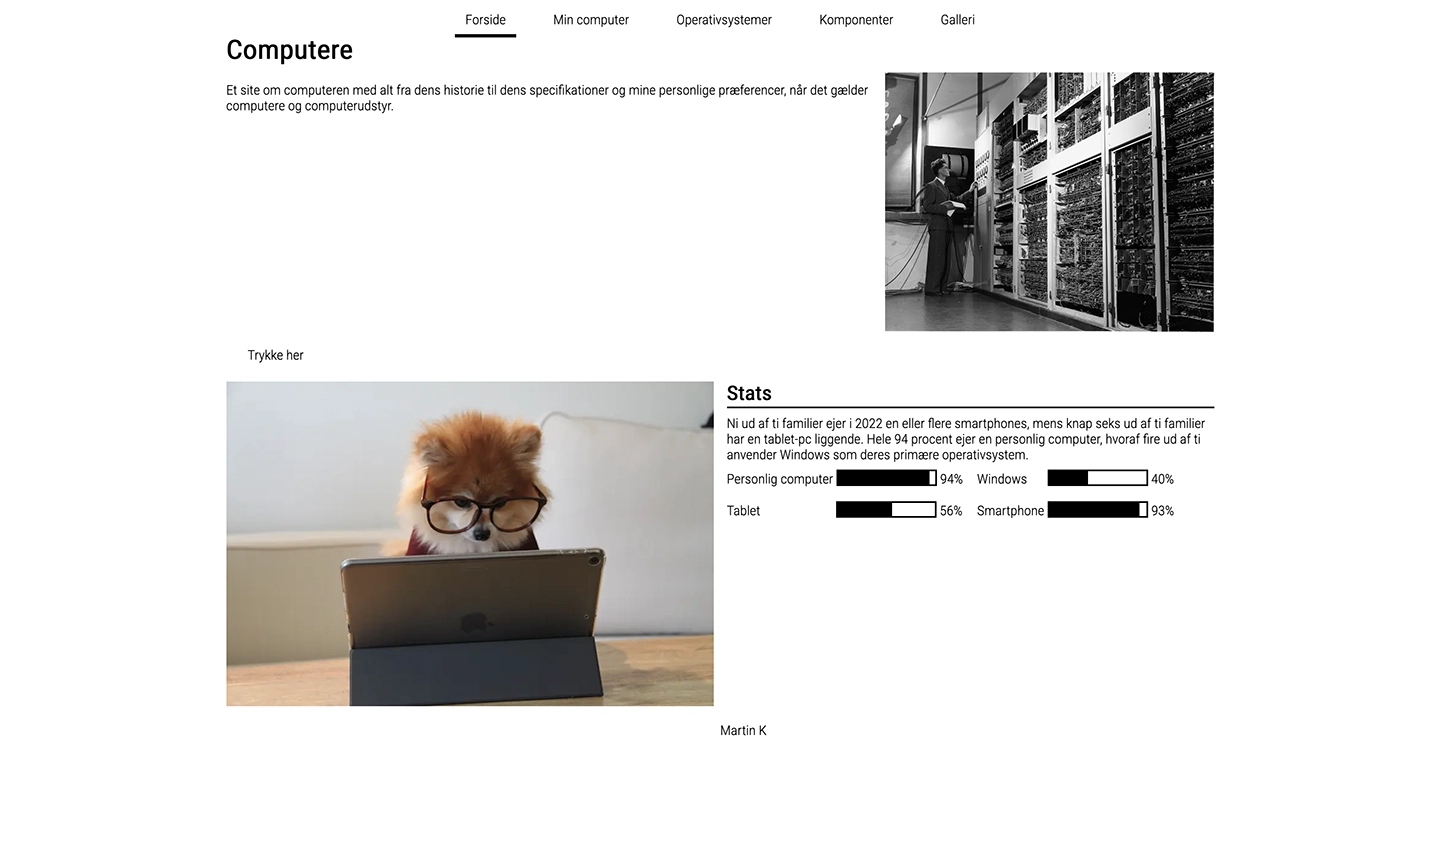
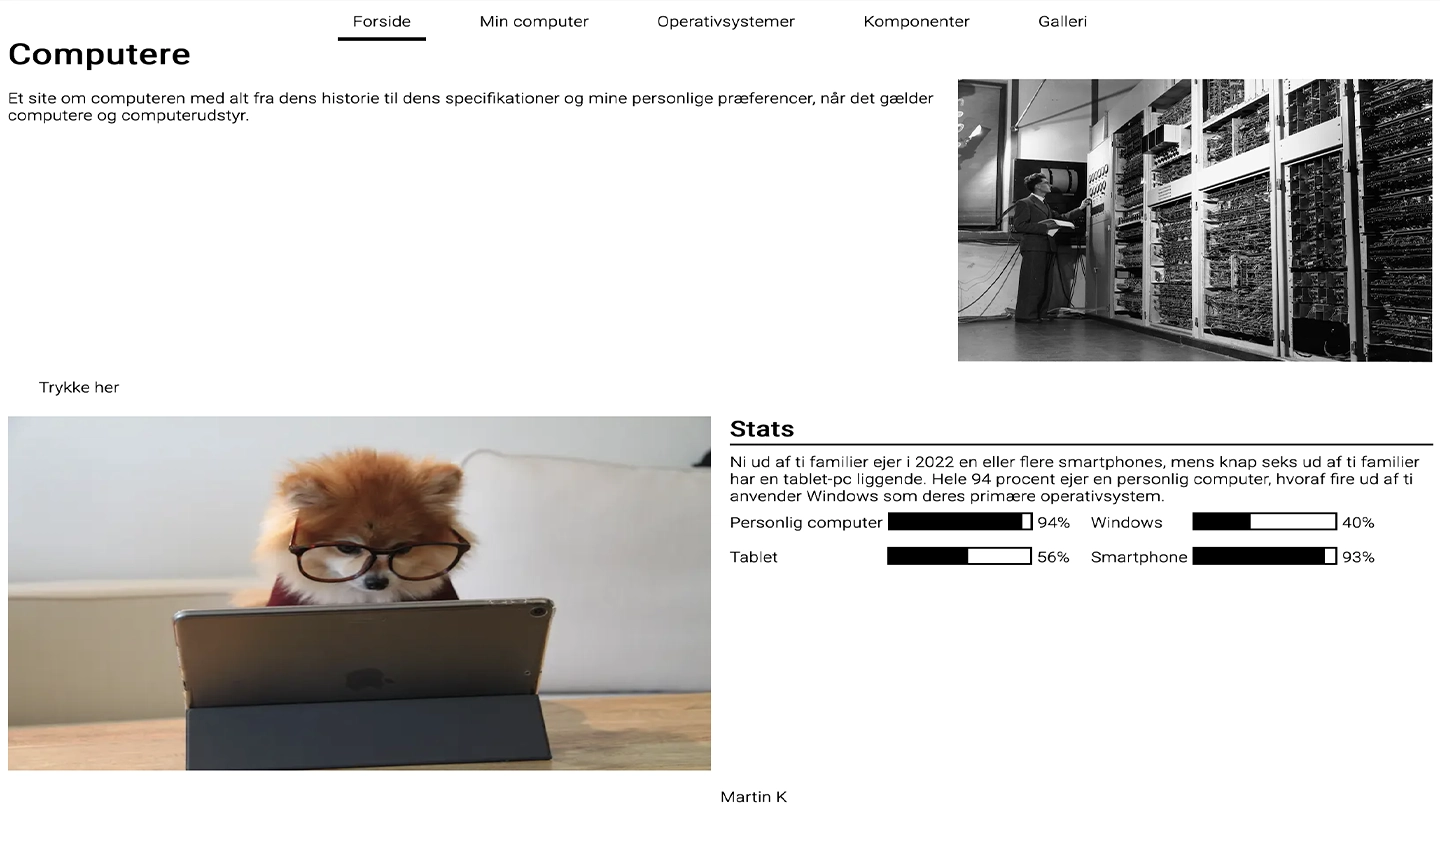
up

diff --git a/CSS/style.css b/CSS/style.css
@@ -35,6 +35,54 @@ header {
   justify-content: flex-end;
   border-bottom: #000 2px solid;
   box-sizing: border-box;
+  z-index: 999;
+}
+
+.mobilmenu {
+  height: 20px;
+  width: 30px;
+  cursor: pointer;
+}
+
+.mobilmenu .line {
+  height: 2px;
+  width: 100px;
+  background-color: #fff;
+  margin-bottom: 5px;
+  transition: 0.2s linear;
+}
+
+.mobilmenu {
+  display: none;
+}
+
+.mobilmenu {
+  width: 30px;
+  height: 20px;
+  cursor: pointer;
+}
+
+.mobilmenu .line {
+  width: 100%;
+  height: 2px;
+  background-color: #333333;
+  margin-bottom: 5px;
+  transition: 0.2s linear;
+}
+
+nav.active .menu .color_index {
+  background: rgba(0, 0, 0, 0.2);
+}
+
+nav.active .menu {
+  height: 1200px;
+  width: 100%;
+  display: block;
+  background: #fff;
+  position: absolute;
+  top: 70px;
+  left: 0;
+  width: 100%;
 }
 
 .logo_box {
@@ -82,13 +130,18 @@ body.index_img {
   align-items: center;
 }
 
+.h1_index {
+  user-select: none;
+}
+
 .link_to_temas {
   border: #000 solid 1px;
   padding: 6px;
 }
 
 .project_section {
-  padding: 10px;
+  padding-top: 15px;
+  padding: 20px 10px 22px 10px;
 }
 
 .ul_projekt {
@@ -100,27 +153,13 @@ body.index_img {
 }
 
 .section_about {
-  display: grid;
-  grid-template-columns: 1fr 1fr;
-  gap: 1em;
-  max-width: 750px;
-  justify-content: center;
-  margin: 0 auto;
-  padding-top: 100px;
-}
-
-.about_text {
-  max-width: 400px;
-  margin: 0 auto;
+  padding: 10px;
 }
 
 .profile_img {
-  grid-row: 2/1;
+  max-width: 300px;
   margin: 0 auto;
-  width: 100%;
-  max-width: 350px;
-  height: auto;
-  display: block;
+  padding-top: 4px;
 }
 
 .footer_text {
@@ -171,6 +210,7 @@ main {
   }
 
   .h2_projekt {
+    padding-top: 5px;
     padding-bottom: 10px;
   }
 
@@ -180,5 +220,57 @@ main {
 
   .ul_projekt {
     padding-left: 16px;
+  }
+
+  .section_about {
+    display: grid;
+    grid-template-columns: 1fr 1fr;
+    gap: 1em;
+    max-width: 750px;
+    justify-content: center;
+    margin: 0 auto;
+    padding-top: 100px;
+  }
+
+  .about_text {
+    max-width: 400px;
+    margin: 0 auto;
+  }
+
+  .profile_img {
+    grid-row: 2/1;
+    margin: 0 auto;
+    width: 100%;
+    max-width: 350px;
+    height: auto;
+    display: block;
+  }
+}
+
+@media screen and (max-width: 860px) and (min-width: 300px) {
+  .menu {
+    display: none;
+  }
+
+  .mobilmenu {
+    display: block;
+  }
+
+  .mobilmenu.active .line:nth-child(1) {
+    transform: rotate(45deg) translate(5px, 5px);
+    transition: 0.2s linear;
+  }
+  .mobilmenu.active .line:nth-child(2) {
+    opacity: 0;
+    transition: 0.15s linear;
+  }
+  .mobilmenu.active .line:nth-child(3) {
+    transform: rotate(-45deg) translate(5px, -5px);
+    transition: 0.2s linear;
+  }
+
+  nav li {
+    padding: 12px 0 12px 0;
+    text-align: center;
   }
 }

diff --git a/project.html b/project.html
@@ -5,6 +5,7 @@
     <meta name="viewport" content="width=device-width, initial-scale=1.0" />
     <link rel="stylesheet" href="css/style.css" />
     <link rel="stylesheet" href="css/font.css" />
+    <script src="js/script.js" defer></script>
     <title>Projekter</title>
   </head>
   <body>
@@ -15,7 +16,7 @@
         /></a>
       </div>
       <nav>
-        <ul>
+        <ul class="menu">
           <li><a href="index.html">Forside</a></li>
           <li><a href="project.html">Projkter</a></li>
           <li><a href="about.html">Om mig</a></li>
@@ -184,7 +185,6 @@
                 eksportere animationen korrekt. I stedet valgte jeg at
                 konvertere den til en video, som vises her på siden.
               </p>
-              <br />
               <br />
               <br />
               <p><strong>Jeg lærte bl.a.:</strong></p>

diff --git a/index.html b/index.html
@@ -5,6 +5,7 @@
     <meta name="viewport" content="width=device-width, initial-scale=1.0" />
     <link rel="stylesheet" href="css/style.css" />
     <link rel="stylesheet" href="css/font.css" />
+    <script src="js/script.js" defer></script>
     <title>Forsiden</title>
   </head>
   <body class="index_img">
@@ -16,7 +17,7 @@
         /></a>
       </div>
       <nav>
-        <ul>
+        <ul class="menu color_index">
           <li><a href="index.html">Forside</a></li>
           <li><a href="project.html">Projkter</a></li>
           <li><a href="about.html">Om mig</a></li>

diff --git a/about.html b/about.html
@@ -5,6 +5,7 @@
     <meta name="viewport" content="width=device-width, initial-scale=1.0" />
     <link rel="stylesheet" href="css/style.css" />
     <link rel="stylesheet" href="css/font.css" />
+    <script src="js/script.js" defer></script>
     <title>Om mig</title>
   </head>
   <body>
@@ -15,7 +16,7 @@
         /></a>
       </div>
       <nav>
-        <ul>
+        <ul class="menu">
           <li><a href="index.html">Forside</a></li>
           <li><a href="project.html">Projkter</a></li>
           <li><a href="about.html">Om mig</a></li>

diff --git a/js/script.js b/js/script.js
@@ -1,0 +1,14 @@
+const mobilmenu = document.querySelector(".mobilmenu");
+const nav = document.querySelector("nav");
+const menu = document.querySelector(".menu");
+
+mobilmenu.addEventListener("click", mobilmenuClick);
+function mobilmenuClick() {
+    mobilmenu.classList.toggle("active");
+  nav.classList.toggle("active");
+}
+menu.addEventListener("click", menuClick);
+function menuClick() {
+  mobilmenu.classList.remove("active");
+  nav.classList.remove("active");
+}

diff --git a/CSS/font.css b/CSS/font.css
@@ -24,9 +24,12 @@ h3 {
   font-size: 1.125rem; /* 18px */
 }
 
-p,
+p {
+  font-size: 1rem;
+}
+
 nav a {
-  font-size: 0.9375rem;
+  font-size: 1.25rem;
 }
 
 /*Full size font*/
